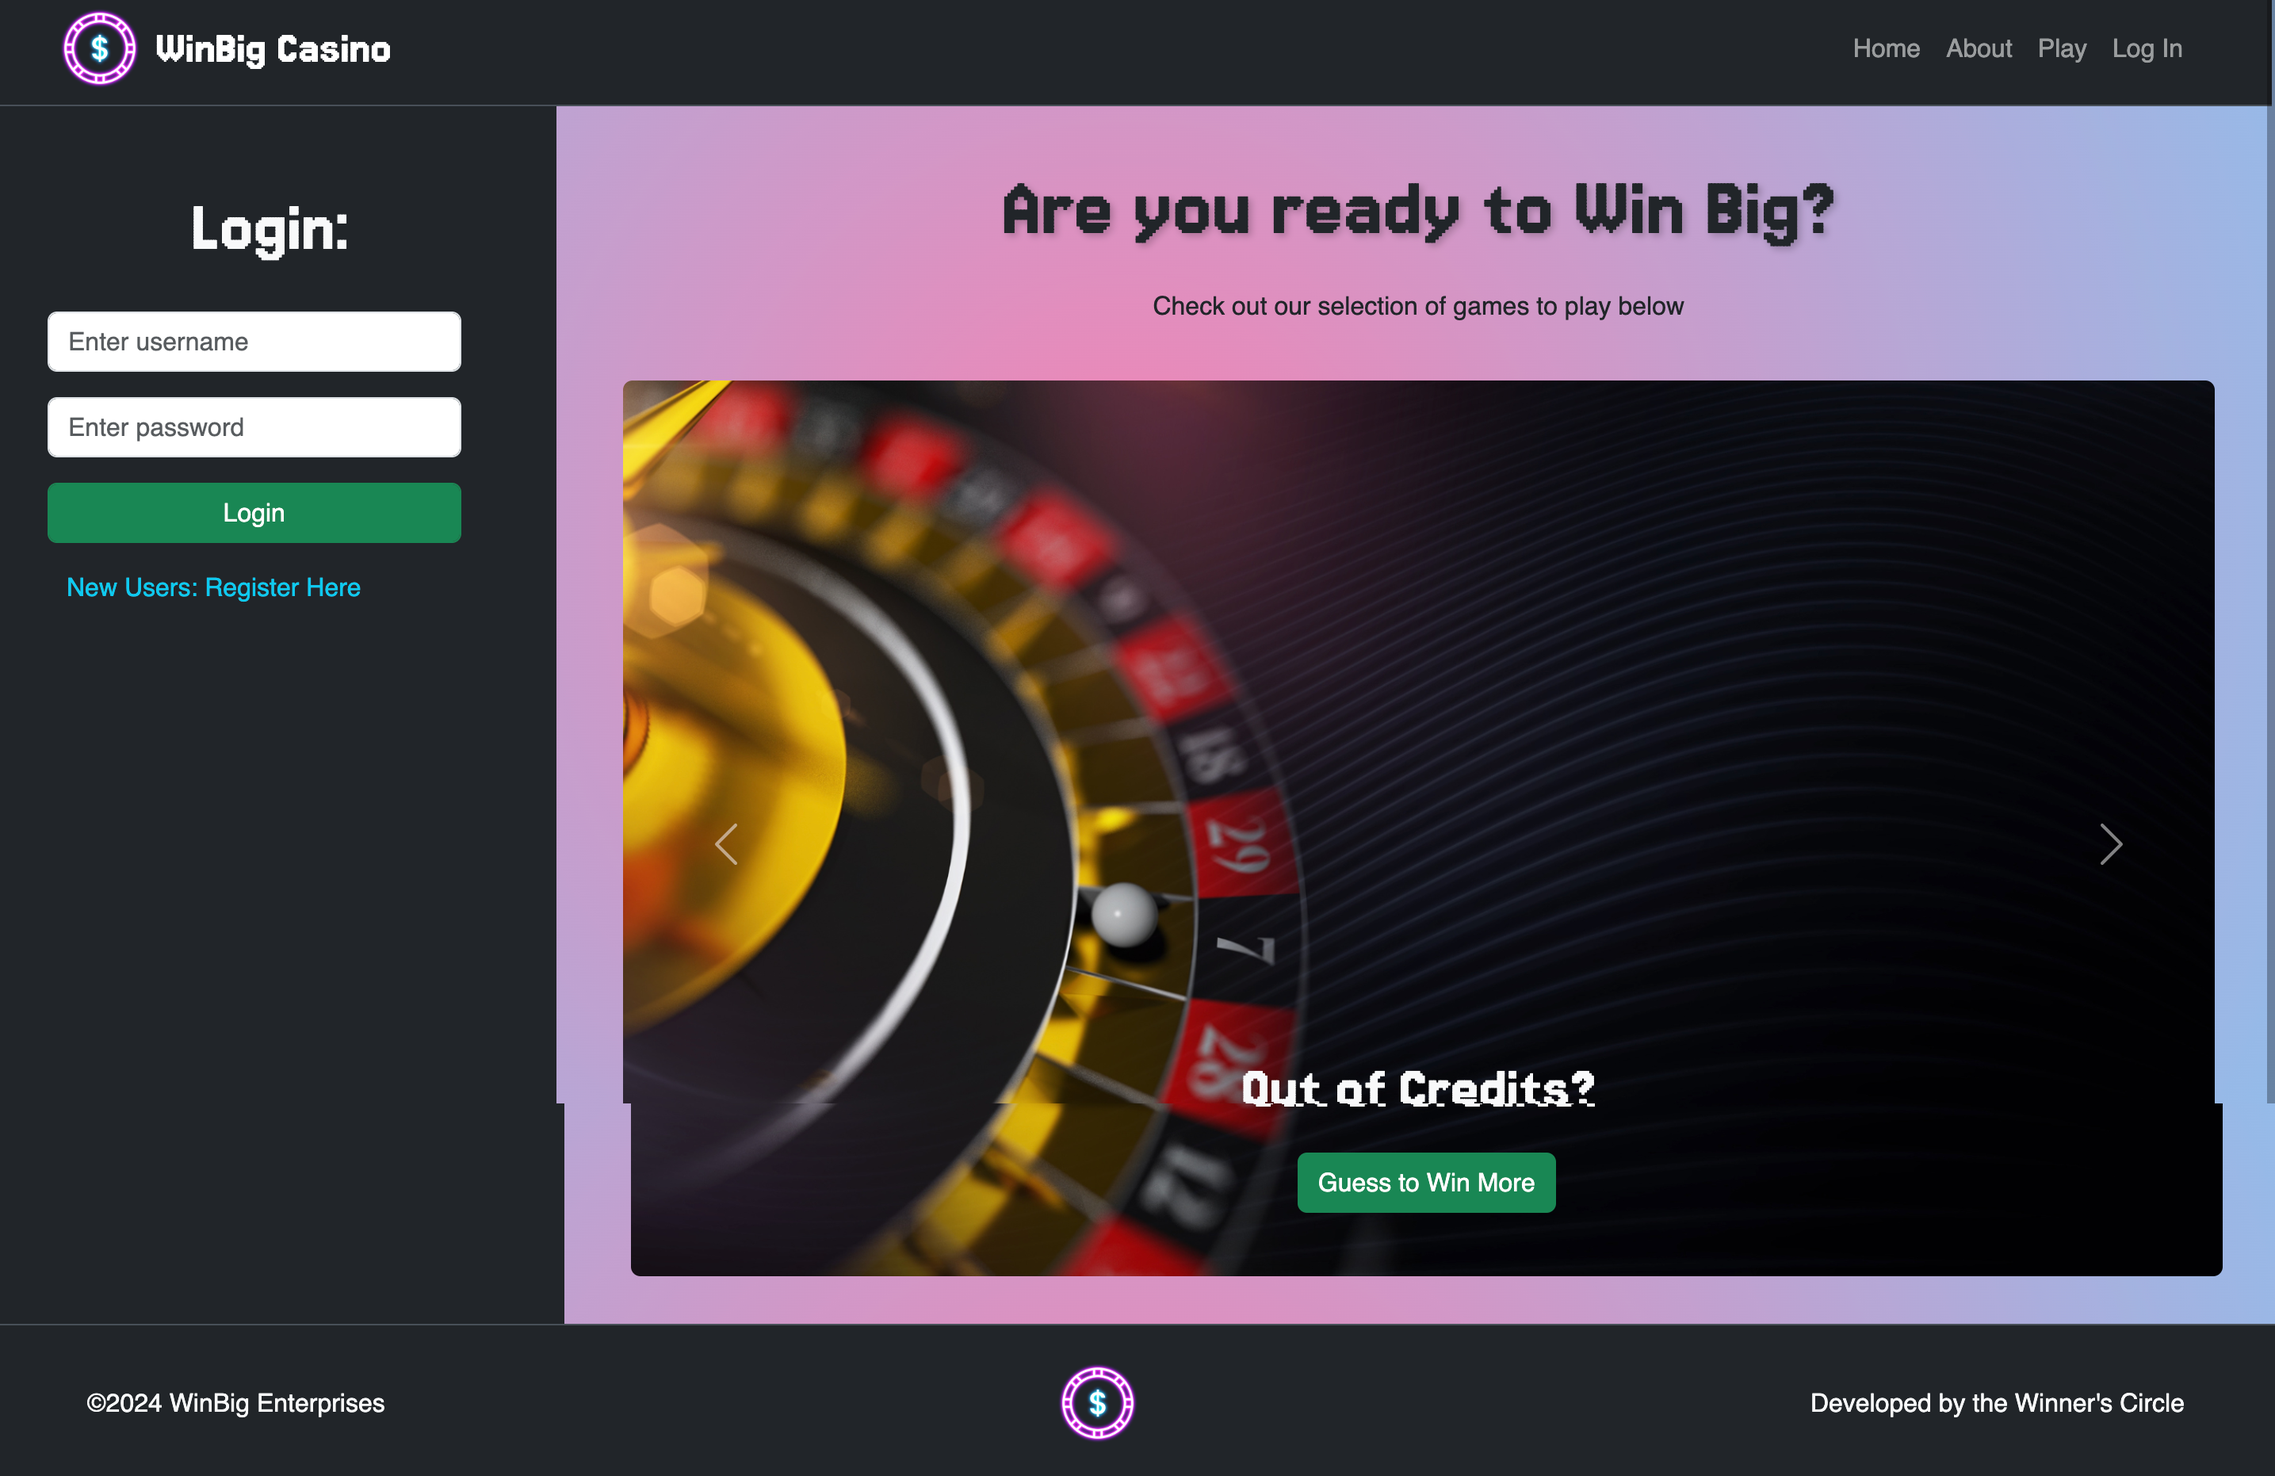
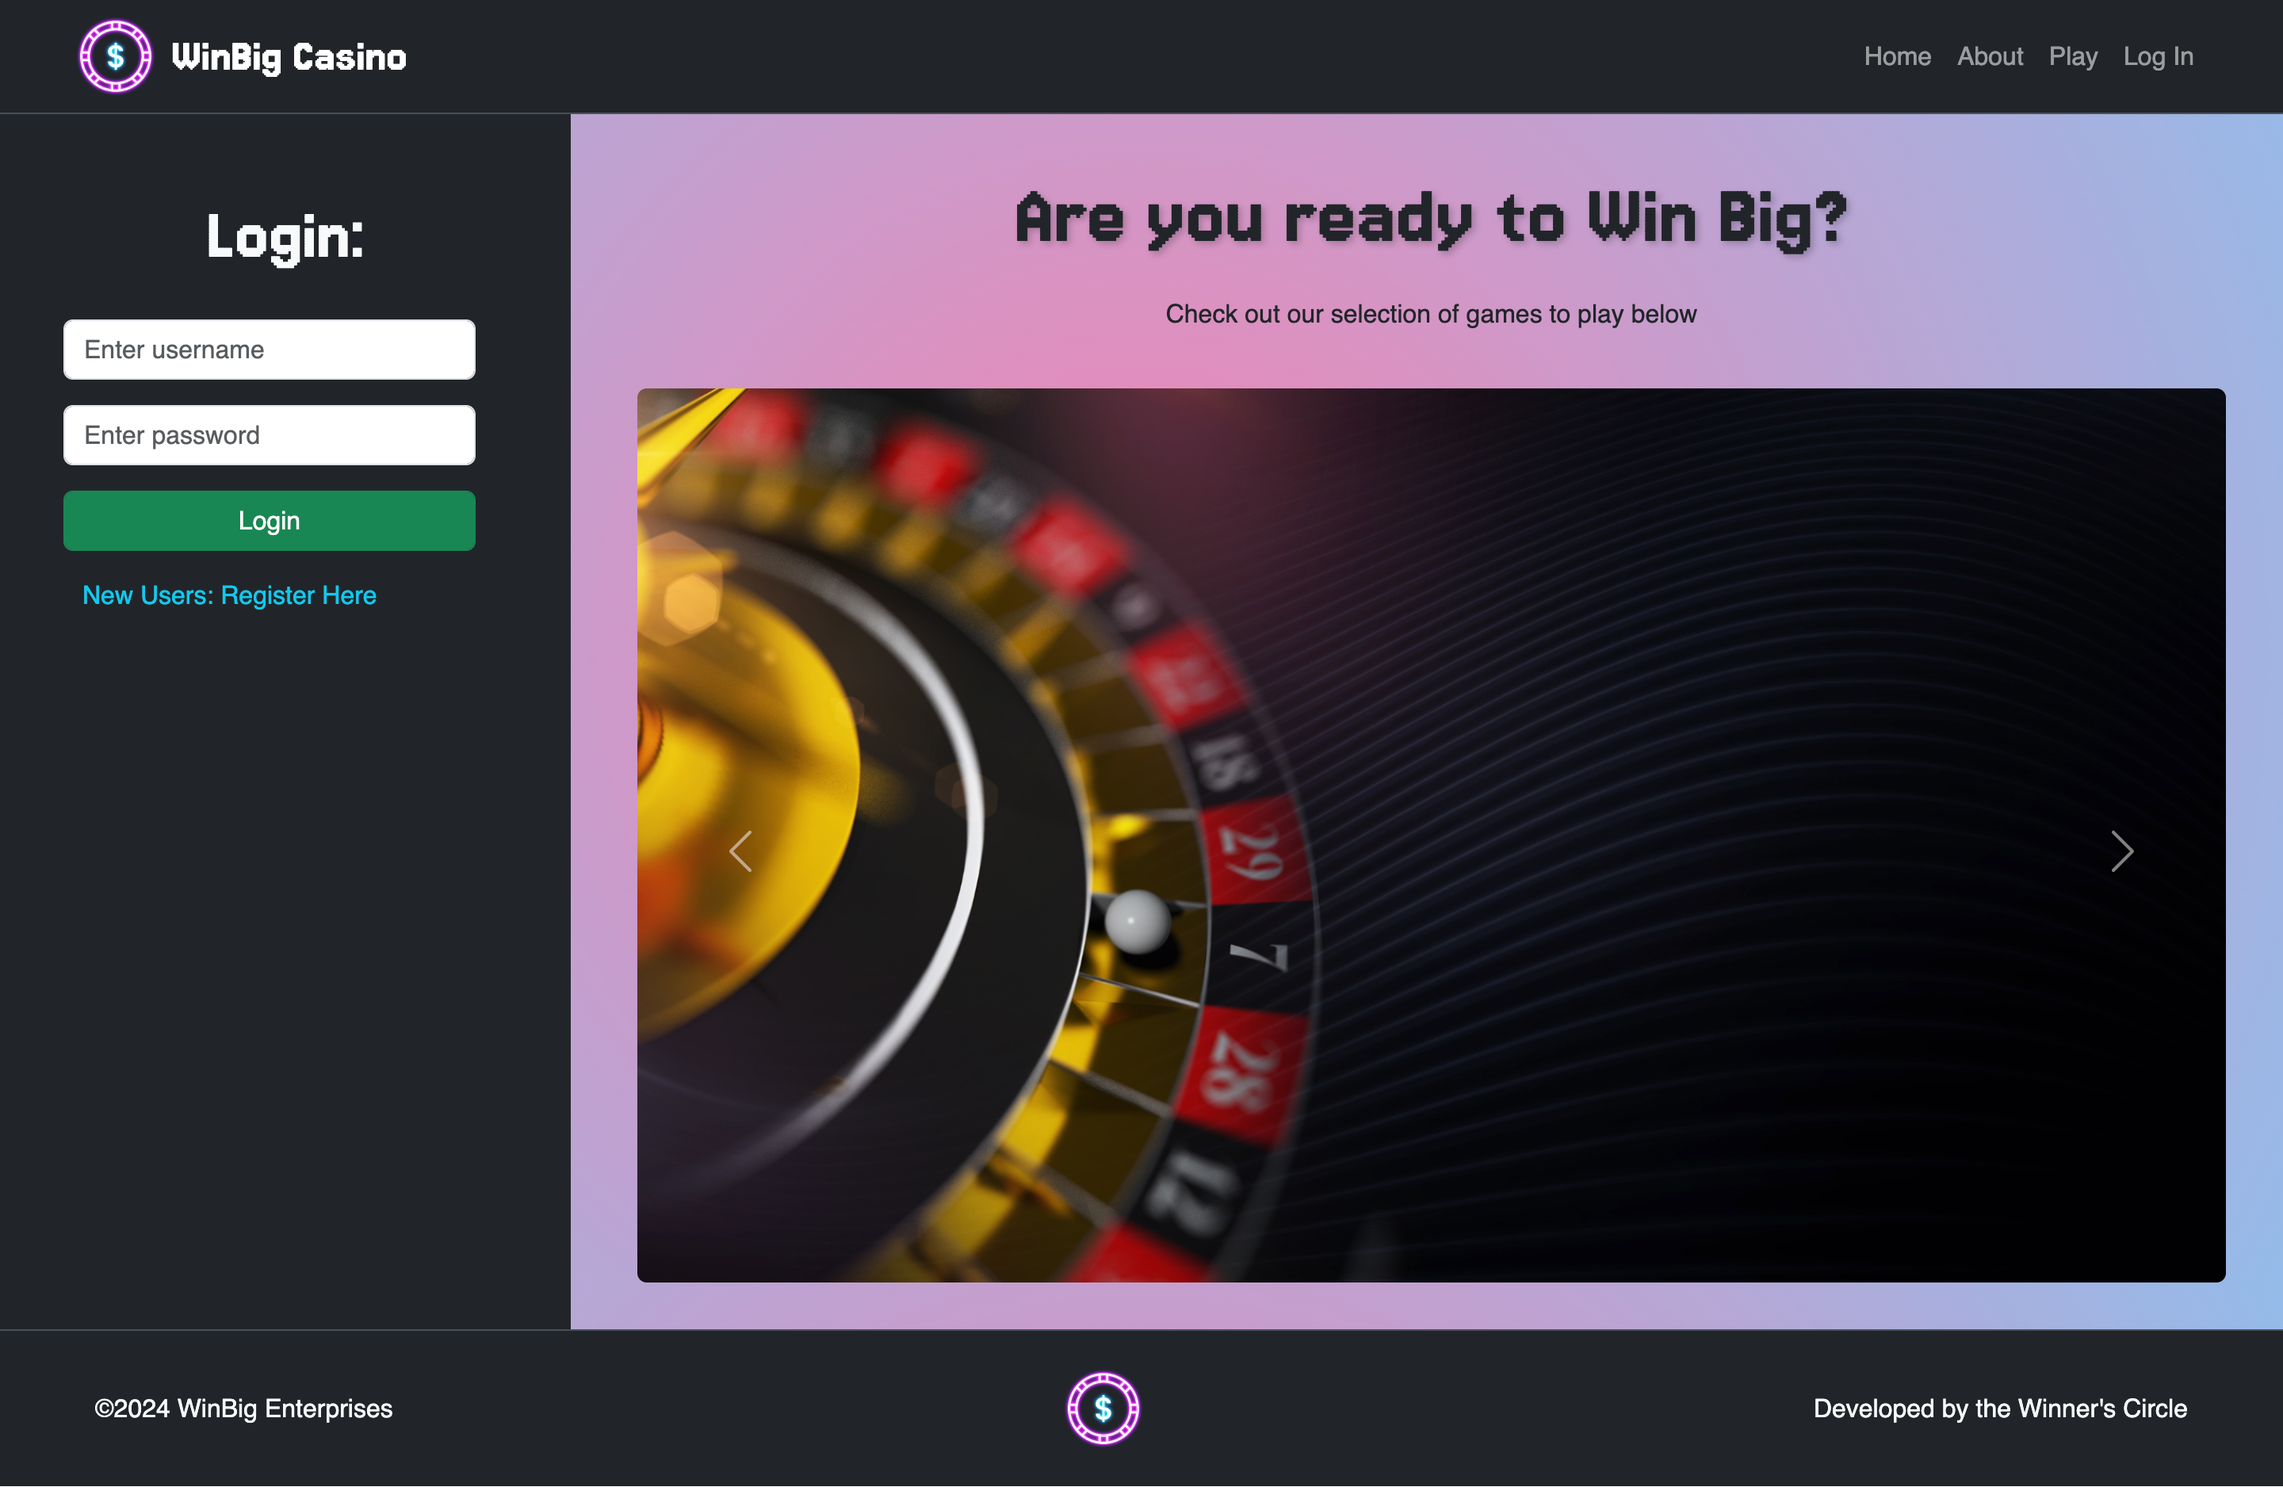
updated some styling because there was a bug on some pages as well where some divs were overflowing over the html file in browser, when in a mobile view.

diff --git a/client/src/pages/Work.jsx b/client/src/pages/Work.jsx
@@ -7,8 +7,8 @@ function Work() {
       <Header />
       <h1 className="text-center pt-5">My Work</h1>
       <h2 className="text-center pt-3 px-5">
-          Check Out The Websites and Applications I Have Built
-        </h2>
+        Check Out The Websites and Applications That I&apos;ve Built
+      </h2>
       <main className="d-flex flex-column justify-content-center align-items-center pb-5">
         <div className="d-flex flex-column container">
           <div className="row">
@@ -30,11 +30,11 @@ function Work() {
                 <div className="card-body">
                   <p className="card-text py-3">
                     Full-Stack Mock Online Marketplace and Item Listing/Auction
-                    Website. This project was the first larger-scale website Ive
-                    built using React and there were some interesting struggles
-                    attempting to get GraphQL data to query and mutate properly.
-                    Some extra context files/providers needed to be setup in
-                    order to make certain functionality happen.
+                    Website. This project was the first larger-scale website
+                    I&apos;ve built using React and there were some interesting
+                    struggles attempting to get GraphQL data to query and mutate
+                    properly. Some extra context files/providers needed to be
+                    setup in order to make certain functionality happen.
                   </p>
                   <div className="d-flex flex-column bg-dark p-3 rounded">
                     <h5 className="text-center text-light">
@@ -60,7 +60,7 @@ function Work() {
                   </div>
                   <div className="d-flex flex-row justify-content-around p-3">
                     <a href="https://bidding-site-o6l3.onrender.com/">
-                      <button className="card-button">Live Site/Demo</button>
+                      <button className="card-button">Live Demo</button>
                     </a>
                     <a href="https://github.com/apurificato/nidhi_marketplace">
                       <button className="card-button">GitHub Repo</button>
@@ -128,7 +128,7 @@ function Work() {
                   </div>
                   <div className="d-flex flex-row justify-content-around p-3">
                     <a href="https://win-big-76ecc78832f3.herokuapp.com/">
-                      <button className="card-button">Live Site/Demo</button>
+                      <button className="card-button">Live Demo</button>
                     </a>
                     <a href="https://github.com/apurificato/WinBig-Digital-Casino">
                       <button className="card-button">GitHub Repo</button>
@@ -163,7 +163,8 @@ function Work() {
                     along with basic JavaScript, HTML and CSS to give users a
                     cool place to find some interesting recipe ideas, based on
                     form inputs. The CSS styling was done through CSS Bulma
-                    Framework, something never used before this project.
+                    Framework, something I&apos;ve never used before this
+                    project.
                   </p>
                   <div className="d-flex flex-column bg-dark p-3 rounded">
                     <h5 className="text-center text-light">
@@ -183,7 +184,7 @@ function Work() {
                   </div>
                   <div className="d-flex flex-row justify-content-around p-3">
                     <a href="https://apurificato.github.io/Wine-and-Dine/">
-                      <button className="card-button">Live Site/Demo</button>
+                      <button className="card-button">Live Demo</button>
                     </a>
                     <a href="https://github.com/apurificato/Wine-and-Dine">
                       <button className="card-button">GitHub Repo</button>
@@ -246,7 +247,7 @@ function Work() {
                   </div>
                   <div className="d-flex flex-row justify-content-around p-3">
                     <a href="https://tech-notes-he04.onrender.com/">
-                      <button className="card-button">Live Site/Demo</button>
+                      <button className="card-button">Live Demo</button>
                     </a>
                     <a href="https://github.com/apurificato/tech.notes">
                       <button className="card-button">GitHub Repo</button>
@@ -298,7 +299,7 @@ function Work() {
                   </div>
                   <div className="d-flex flex-row justify-content-around p-3">
                     <a href="https://note-taker-s8qu.onrender.com/">
-                      <button className="card-button">Live Site/Demo</button>
+                      <button className="card-button">Live Demo</button>
                     </a>
                     <a href="https://github.com/apurificato/Note-Taker">
                       <button className="card-button">GitHub Repo</button>
@@ -334,11 +335,11 @@ function Work() {
                     employee management software application. The user can then
                     engage in a CRUD (Create, Read, Update, and Delete) Process
                     with the database. Since a node package like Sequelize was
-                    NOT used here, the Schema, Query, and Seed files were set up
-                    manually. Inquirer Prompt node package was also used,
-                    allowing for the user to run a prompt series of questions in
-                    the Command Terminal; input recieved there dynamically
-                    updates the database.
+                    NOT used here, I set up the Schema, Query, and Seed files
+                    manually. Inquirer Prompt node package was also used in this
+                    project, allowing for the user to run a prompt series of
+                    questions in the Command Terminal; input recieved there
+                    dynamically updates the database.
                   </p>
                   <div className="d-flex flex-column bg-dark p-3 rounded">
                     <h5 className="text-center text-light">

diff --git a/client/src/pages/AboutMe.jsx b/client/src/pages/AboutMe.jsx
@@ -23,32 +23,35 @@ function AboutMe() {
           <div className="row">
             <div className="col-md-6 px-5">
               <p>
-              <span className="theme-color">
-                I love creating websites and digital applications. Lets just say
-                its kinda my passion.</span> When I started working within the creative
-                and technology space, I quickly realized that this was a field
-                that I wanted to stay in. My technical skills were built from
-                humble begginings, starting with a simple WordPress blog website
-                for an Online/Blog Writing course that I completed at Rutgers
-                University, blending various creative interests of mine (namely
-                writing and web design). This is where I started to see some
-                sort of path forward into the tech space, as that website
-                project helped me land a Content Specialist role at a Creative
-                Agency in NJ soon after graduating from Rutgers.
+                <span className="theme-color">
+                  I love creating websites and digital applications. Let&apos;s
+                  just say it&apos;s kinda my thing.
+                </span>{" "}
+                When I started working within the creative and technology space,
+                I quickly realized that this was a field that I wanted to stay
+                in. My technical skills were built from humble begginings,
+                starting with a simple WordPress blog website for an Online/Blog
+                Writing course that I completed at Rutgers University. The
+                course blended various creative interests of mine (namely
+                writing and web design) and this was where I started to see some
+                sort of path forward into the tech space. That little website
+                helped me land a Content Specialist role at a Creative Agency in
+                NJ soon after graduating from Rutgers.
               </p>
               <p>
                 I worked at that role for almost 3 years, learning a ton about
-                publishing on websites and applications, both small and large in
+                publishing websites and applications, both small and large in
                 scale. I also broke into the digital marketing space a bit
                 through work I did with publishing/developing email templates,
-                social media posting, and Search Engine Optimization (SEO).
+                social media posting, and Search Engine Optimization (SEO) there
+                and moving forward.
               </p>
             </div>
             <div className="col-md-6 px-5">
               <p>
-                Recently, I completed a Full Stack Coding Bootcamp through
+                Just recently, I completed a Full Stack Coding Bootcamp through
                 Rutgers/EdX, which has helped bridge the gap from my previous
-                web and content management/publishing experience to web
+                content management and publishing experience to actual web
                 development/programming skills. My previous professional
                 experience enabled me to learn the ins and outs of websites on
                 various platforms and content management systems. As I completed
@@ -61,11 +64,11 @@ function AboutMe() {
                   My current specialty is Front-End Development with a focus on
                   the following technologies: HTML, CSS (and CSS Frameworks),
                   and JavaScript (including React).
-                </span>{" "}
-                Although my current specialty is Front-End, I have some
-                additional knowledge and experience working with Back-End
-                technologies, including Node.js, SQL (PostgreSQL), NoSQL
-                (MongoDB), and Express.js.
+                </span>
+                Although I am well versed in Front-End Development and
+                Responsive Web Design, I have some additional knowledge and
+                experience working with Back-End technologies, including
+                Node.js, SQL (PostgreSQL), NoSQL (MongoDB), and Express.js.
               </p>
             </div>
           </div>

diff --git a/client/src/components/Header.jsx b/client/src/components/Header.jsx
@@ -1,17 +1,17 @@
-import { useState } from "react";
-import { createContext } from "react";
+// import { useState } from "react";
+// import { createContext } from "react";
 
 import { NavLink } from "react-router-dom";
-import ReactSwitch from "react-switch";
+// import ReactSwitch from "react-switch";
 
-export const ThemeContext = createContext("dark");
+// export const ThemeContext = createContext("dark");
 
 function Header() {
-  const [theme, setTheme] = useState("dark");
+  // const [theme, setTheme] = useState("dark");
 
-  const toggleTheme = () => {
-    setTheme((curr) => (curr === "light" ? "dark" : "light"));
-  };
+  // const toggleTheme = () => {
+  //   setTheme((curr) => (curr === "light" ? "dark" : "light"));
+  // };
 
   return (
       <header className="d-flex flex-column">
@@ -42,10 +42,10 @@ function Header() {
               <NavLink to="/contact-me">Contact Me</NavLink>
               <NavLink to="/resume">Resume</NavLink>
             </div>
-            <div className="switch d-flex align-items-center px-5">
+            {/* <div className="switch d-flex align-items-center px-5">
               <ReactSwitch onChange={toggleTheme} checked={theme === "dark"} />
-              {/* <label className="px-2">{theme === "light" ? "Light Mode" : "Dark Mode"}</label> */}
-            </div>
+              <label className="px-2">{theme === "light" ? "Light Mode" : "Dark Mode"}</label>
+            </div> */}
           </div>
         </nav>
       </header>

diff --git a/client/src/pages/ContactMe.jsx b/client/src/pages/ContactMe.jsx
@@ -11,11 +11,11 @@ function ContactMe() {
         </h2>
       <main className="d-flex flex-column text-center justify-content-center align-items-center pb-5">
         <section id="contact-me">
-          <h4>
+          <h4 className="px-5">
             Just quickly submit this form and I will get back to you within 24
             hours.
           </h4>
-          <div className="p-5">
+          <div className="py-5">
             <form action="https://api.web3forms.com/submit" method="POST">
               <ul>
                 <input
@@ -46,7 +46,7 @@ function ContactMe() {
               </ul>
             </form>
           </div>
-          <h4>
+          <h4 className="px-5">
             Thank you for visiting my site. I look forward to connecting with
             you soon!
           </h4>

diff --git a/client/src/pages/Resume.jsx b/client/src/pages/Resume.jsx
@@ -8,7 +8,7 @@ function Resume() {
       <h1 className="text-center p-5">My Resume</h1>
       <h2 className="text-center pt-3 px-5">Click to Download and Save My Resume For Your Convenience</h2>
       <main className="d-flex flex-column text-center justify-content-center align-items-center pb-5">
-        <div className="p-5 d-flex flex-column">
+        <div className="py-5 d-flex flex-column">
         <img src="Green-arrow.svg" alt="Green arrow image" className="p-5" id="download-arrow" />
           <a href="/Anthony-Purificato-Web-Developer-Resume-2024.pdf" download="AP-Resume">
             <button type="button">Download Resume</button>

diff --git a/client/src/index.css b/client/src/index.css
@@ -21,6 +21,7 @@
   margin: 0;
   width: 100%;
   height: 100vh;
+  box-sizing: border-box;
 }
 
 html, body {
